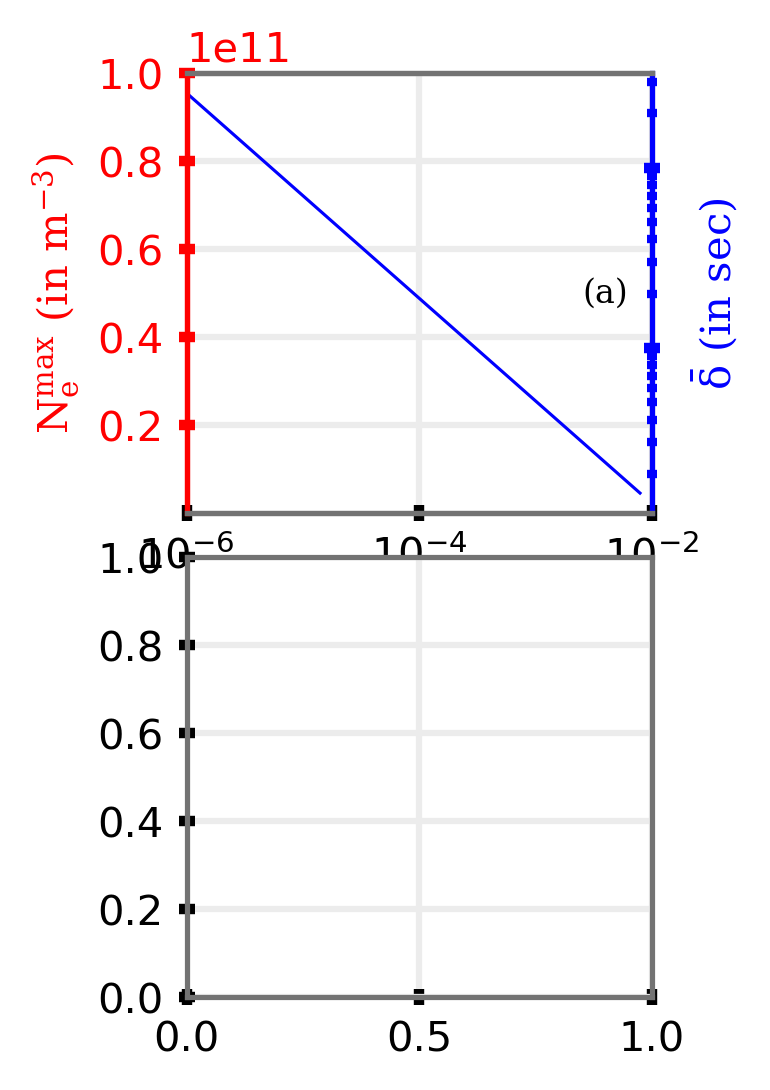
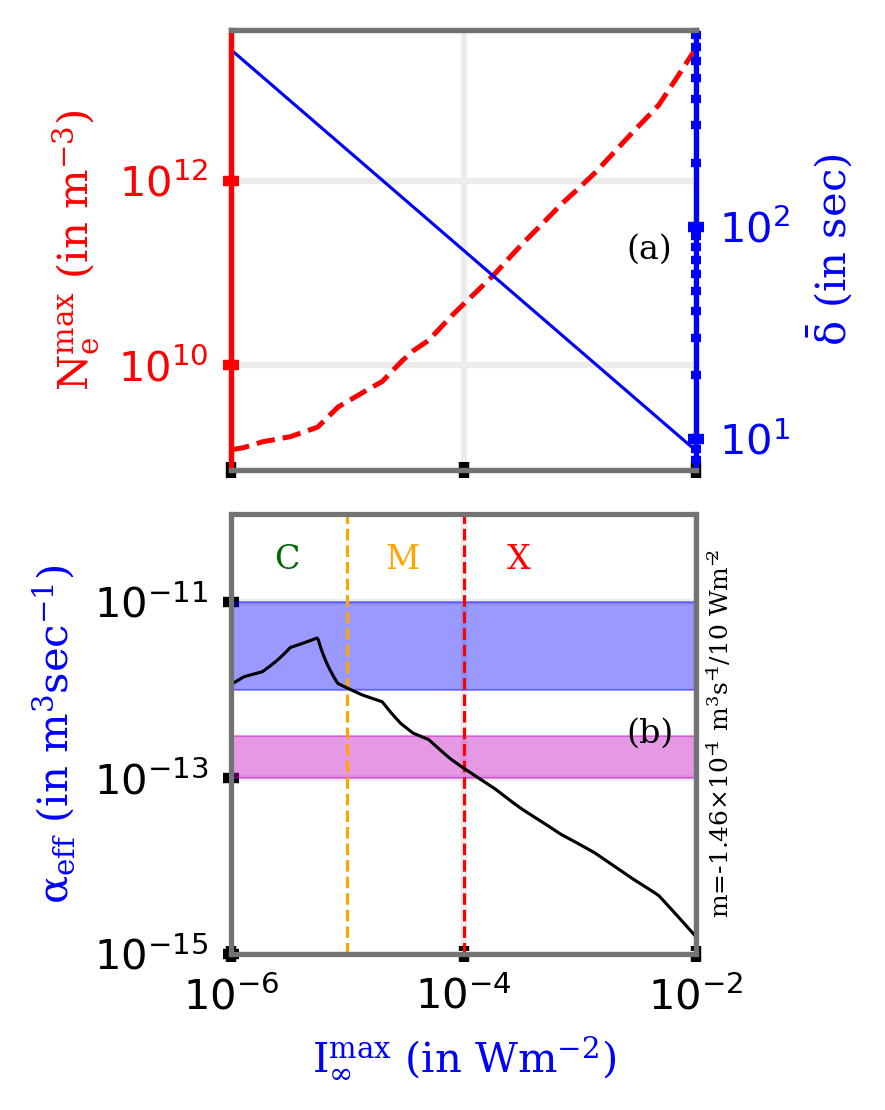
Simulation

diff --git a/model.py b/model.py
@@ -4,6 +4,9 @@ matplotlib.use("Agg")
 import numpy as np
 import spacepy.plot as splot
 import matplotlib.pyplot as plt
+from scipy.interpolate import interp1d
+from scipy import array
+from scipy.stats import linregress
 
 import statsmodels.api as sm
 from statsmodels.formula.api import ols
@@ -21,6 +24,26 @@ matplotlib.rcParams["xtick.labelsize"] = 10
 matplotlib.rcParams["ytick.labelsize"] = 10
 matplotlib.rcParams["mathtext.default"] = "default"
 
+c = 3e8 #m/s
+w = 2*np.pi*30e6 #rad/s
+me = 9.31e-31 #kg
+q = 1.60218e-19 #C
+kB = 1.38e-23 #JK
+g = 9.8 #m/s^2
+
+def extrap1d(x,y,kind="linear"):
+    """ This method is used to extrapolate 1D paramteres """
+    interpolator = interp1d(x,y,kind=kind)
+    xs = interpolator.x
+    ys = interpolator.y
+    def pointwise(x):
+        if x < xs[0]: return ys[0]+(x-xs[0])*(ys[1]-ys[0])/(xs[1]-xs[0])
+        elif x > xs[-1]: return ys[-1]+(x-xs[-1])*(ys[-1]-ys[-2])/(xs[-1]-xs[-2])
+        else: return interpolator(x)
+    def ufunclike(xs):
+        return array(list(map(pointwise, array(xs))))
+    return ufunclike
+
 def eformat(f, prec, exp_digits):
     s = "%.*e"%(prec, f)
     mantissa, exp = s.split("e")
@@ -28,17 +51,25 @@ def eformat(f, prec, exp_digits):
     return u
 
 def func_aeff(iq, ne, d, T=275, theta=70.):
-    g = 9.8
     m = 4.8e-26
-    rho = 34 * 1.60218e-19
-    e = np.e
-    k = 1.38e-23
-    cos = np.cos(np.deg2rad(theta))
-    aeff = 0.375 / ( d * ( ne - (iq*cos*g*m*d / (rho*e*k*T)) ) )
+    rho = 34 * q
+    aeff = 0.375 / ( d * ( ne - (iq*np.cos(np.deg2rad(theta))*g*m*d / (rho*np.e*kB*T)) ) )
+    print(aeff)
     return aeff
 
 def fetch_electron_densities(Iq):
+    def get_params(Iq):
+        b, h = 0., 0.
+        xn = 10*np.log10(Iq/1e-6)
+        d = pd.read_csv("csv/beta.csv")
+        x, y = d["phi"], d["beta"]
+        b = extrap1d(x, y)(xn)
+        d = pd.read_csv("csv/height.csv")
+        x, y = d["phi"], d["height"]
+        h = extrap1d(x, y)(xn)
+        return b, h
     df = pd.read_csv("csv/rio_c0.csv")
+    df = df[(df.dt>100) & (df.dt<800)].dropna()
     df["cossza"] = df.sza.transform(lambda x: np.cos(np.deg2rad(x)))
     df["logfmax"] = df.fmax.transform(lambda x: np.log10(x))
     model = sm.GLM(df.dt, df[["logfmax"]].values, family=sm.families.NegativeBinomial())
@@ -46,37 +77,66 @@ def fetch_electron_densities(Iq):
     o = r.get_prediction(np.log10(Iq))
     m, v = o.predicted_mean, np.sqrt(o.var_pred_mean)
     ne = 0.
-    return ne, m
+    b, h = get_params(Iq)
+    ne = np.mean(np.array([1.43e13*np.exp(-0.15*h + ((b-0.15) * (z-h))) for z in np.arange(70,75)]), axis=0)
+    return ne, m, v
 
-Iq = 10**np.arange(-6,-2,0.1)
+Iq = 10**np.arange(-6,-2,0.01)
+ne, dtm, dtv = fetch_electron_densities(Iq)
 fig, axes = plt.subplots(figsize=(2,4),dpi=130, nrows=2, ncols=1)
 fig.subplots_adjust(hspace=.1)
 ax = axes[0]
 col = "red"
 ax.spines["left"].set_color(col)
-ax.tick_params(axis='y', which='both', colors=col)
-ax.yaxis.label.set_color(col)
-font["color"] = col
-#ax.loglog(Iq, fetch_electron_densities(Iq,ssn=140)/20, "r--")
-ax.set_ylim(1e7,1e11)
-ax.set_xlim(1e-6,1e-3)
-ax.set_ylabel(r"$N_e^{max}$ (in "+r"$m^{-3}$)",fontdict=font)
-ax.text(0.9,0.5,"(a)",horizontalalignment="center",
-                verticalalignment="center", transform=ax.transAxes,fontdict=fontT)
-ax = ax.twinx()
-ax.spines["left"].set_color(col)
-col = "blue"
-ax.spines['right'].set_color(col)
 ax.tick_params(axis="y", which="both", colors=col)
 ax.yaxis.label.set_color(col)
 font["color"] = col
-ax.loglog(Iq, fetch_electron_densities(Iq)[1], "blue",linewidth=0.75)
+ax.loglog(Iq, ne, "r--")
+#ax.set_ylim(1e7,1e11)
+ax.set_xlim(1e-6,1e-2)
+ax.set_ylabel(r"$N_e^{max}$ (in "+r"$m^{-3}$)",fontdict=font)
+ax.text(0.9,0.5,"(a)",horizontalalignment="center",
+        verticalalignment="center", transform=ax.transAxes,fontdict=fontT)
+ax = ax.twinx()
+ax.spines["left"].set_color(col)
+col = "blue"
+ax.spines["right"].set_color(col)
+ax.tick_params(axis="y", which="both", colors=col)
+ax.yaxis.label.set_color(col)
+font["color"] = col
+ax.loglog(Iq, dtm, "blue",linewidth=0.75)
 ax.grid(False)
 ax.set_xlim(1e-6,1e-2)
 ax.set_ylabel(r"$\bar{\delta}$ (in "+r"sec)",fontdict=font)
 ax.set_xticklabels([])
 
 ax = axes[1]
+ax.set_xlabel(r"$I_{\infty}^{max}$"+" (in "+r"$Wm^{-2}$)",fontdict=font)
+ax.set_ylabel(r"$\alpha_{eff}$ (in "+r"$m^{3} sec^{-1})$",fontdict=font)
+ax.axhspan(ymin=1e-13,ymax=3e-13,color="m",alpha=0.4)
+ax.axhspan(ymax=1e-11,ymin=1e-12,color="b",alpha=0.4)
+ax.set_yscale("log")
+ax.set_xscale("log")
+ax.set_ylim(1e-15,1e-10)
+ax.set_xlim(1e-6,1e-2)
+ax.axvline(1e-5,color="orange",ls="--",linewidth=0.75)
+ax.axvline(1e-4,color="red",ls="--",linewidth=0.75)
+fontT["color"] = "darkgreen"
+ax.text(3e-6,3e-11,"C", horizontalalignment="center", verticalalignment="center", fontdict=fontT)
+fontT["color"] = "orange"
+ax.text(3e-5,3e-11,"M", horizontalalignment="center", verticalalignment="center", fontdict=fontT)
+fontT["color"] = "red"
+ax.text(3e-4,3e-11,"X", horizontalalignment="center", verticalalignment="center", fontdict=fontT)
+fontT["size"]=8
+ae = func_aeff(Iq, ne, dtm, T=370, theta=80)
+ax.loglog(Iq, ae,"k", linewidth=0.75)
+fontT["color"] = "k"
+fontT["size"]=6
+slope, intercept, r_value, p_value, std_err = linregress(np.log10(Iq), np.log10(ae))
+ax.text(1.05,0.5,r"m=-%s $m^3s^{-1}/10$ $Wm^{-2}$"%eformat(10**slope, 2, 2), horizontalalignment="center",
+        verticalalignment="center", transform=ax.transAxes,fontdict=fontT,rotation=90)
+fontT["size"]=8
+ax.text(0.9,0.5,"(b)",horizontalalignment="center", verticalalignment="center", transform=ax.transAxes,fontdict=fontT)
 
 fig.savefig("images/simulation.png",bbox_inches="tight")
 os.system("rm -rf __pycache__/")
